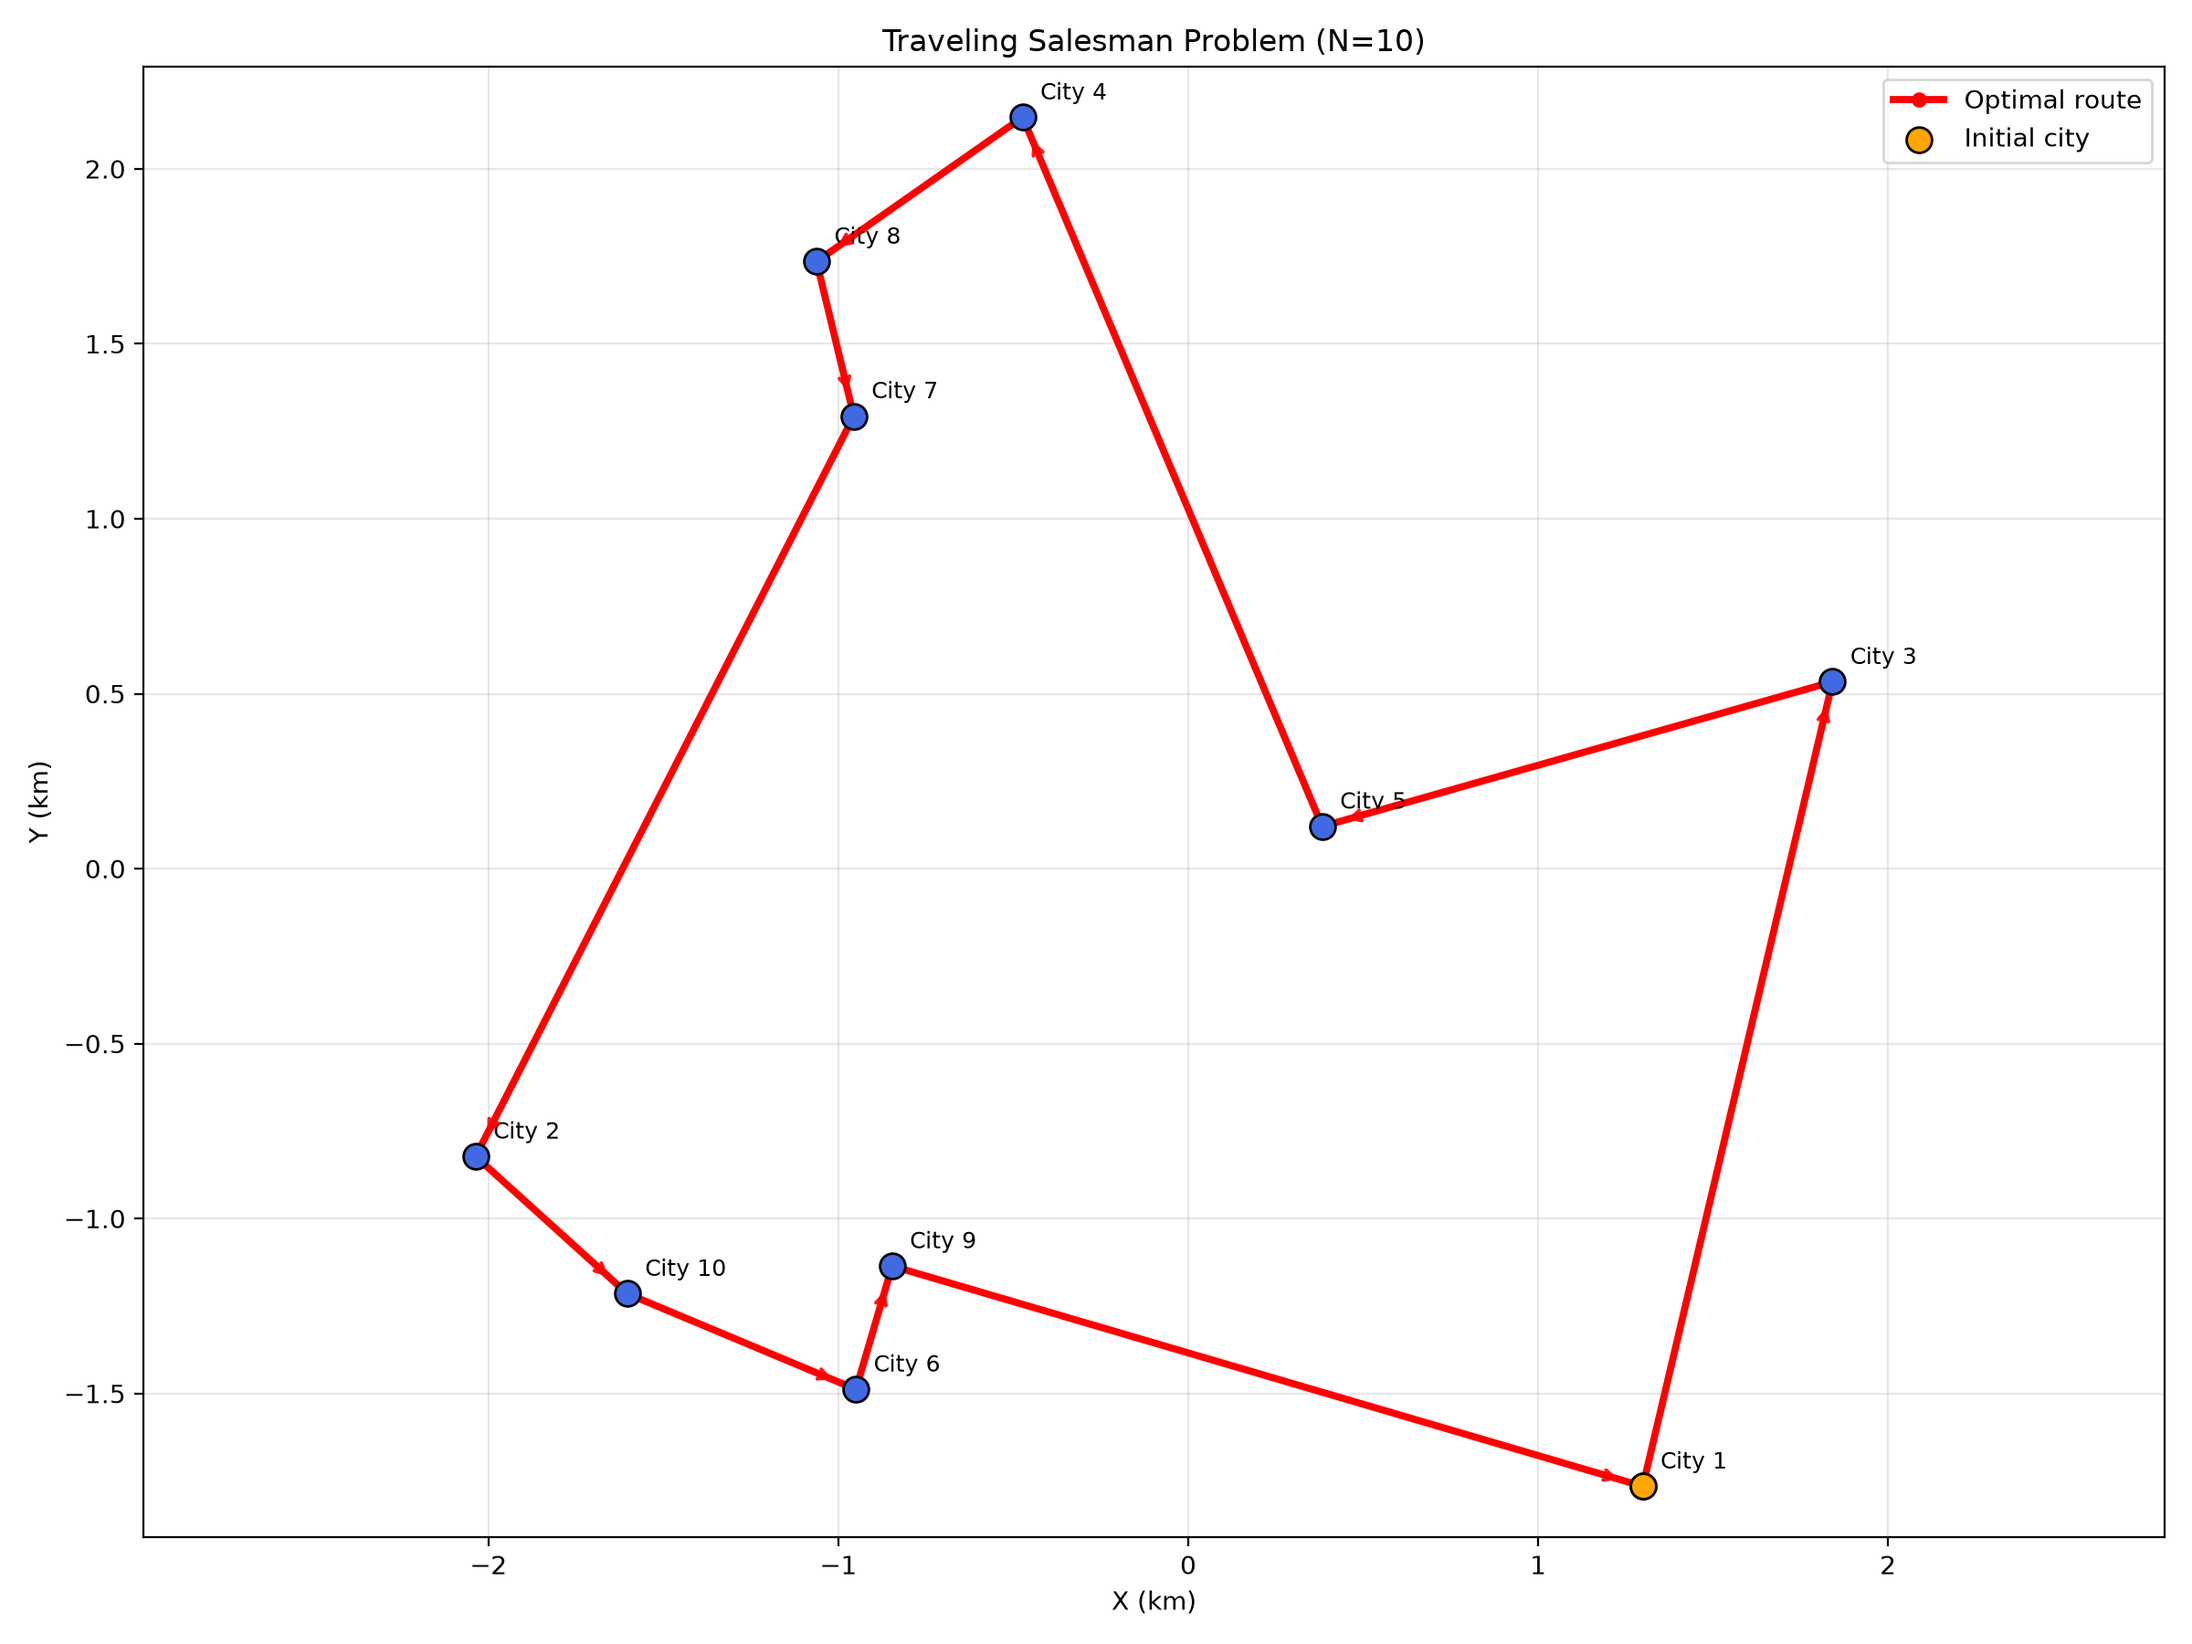
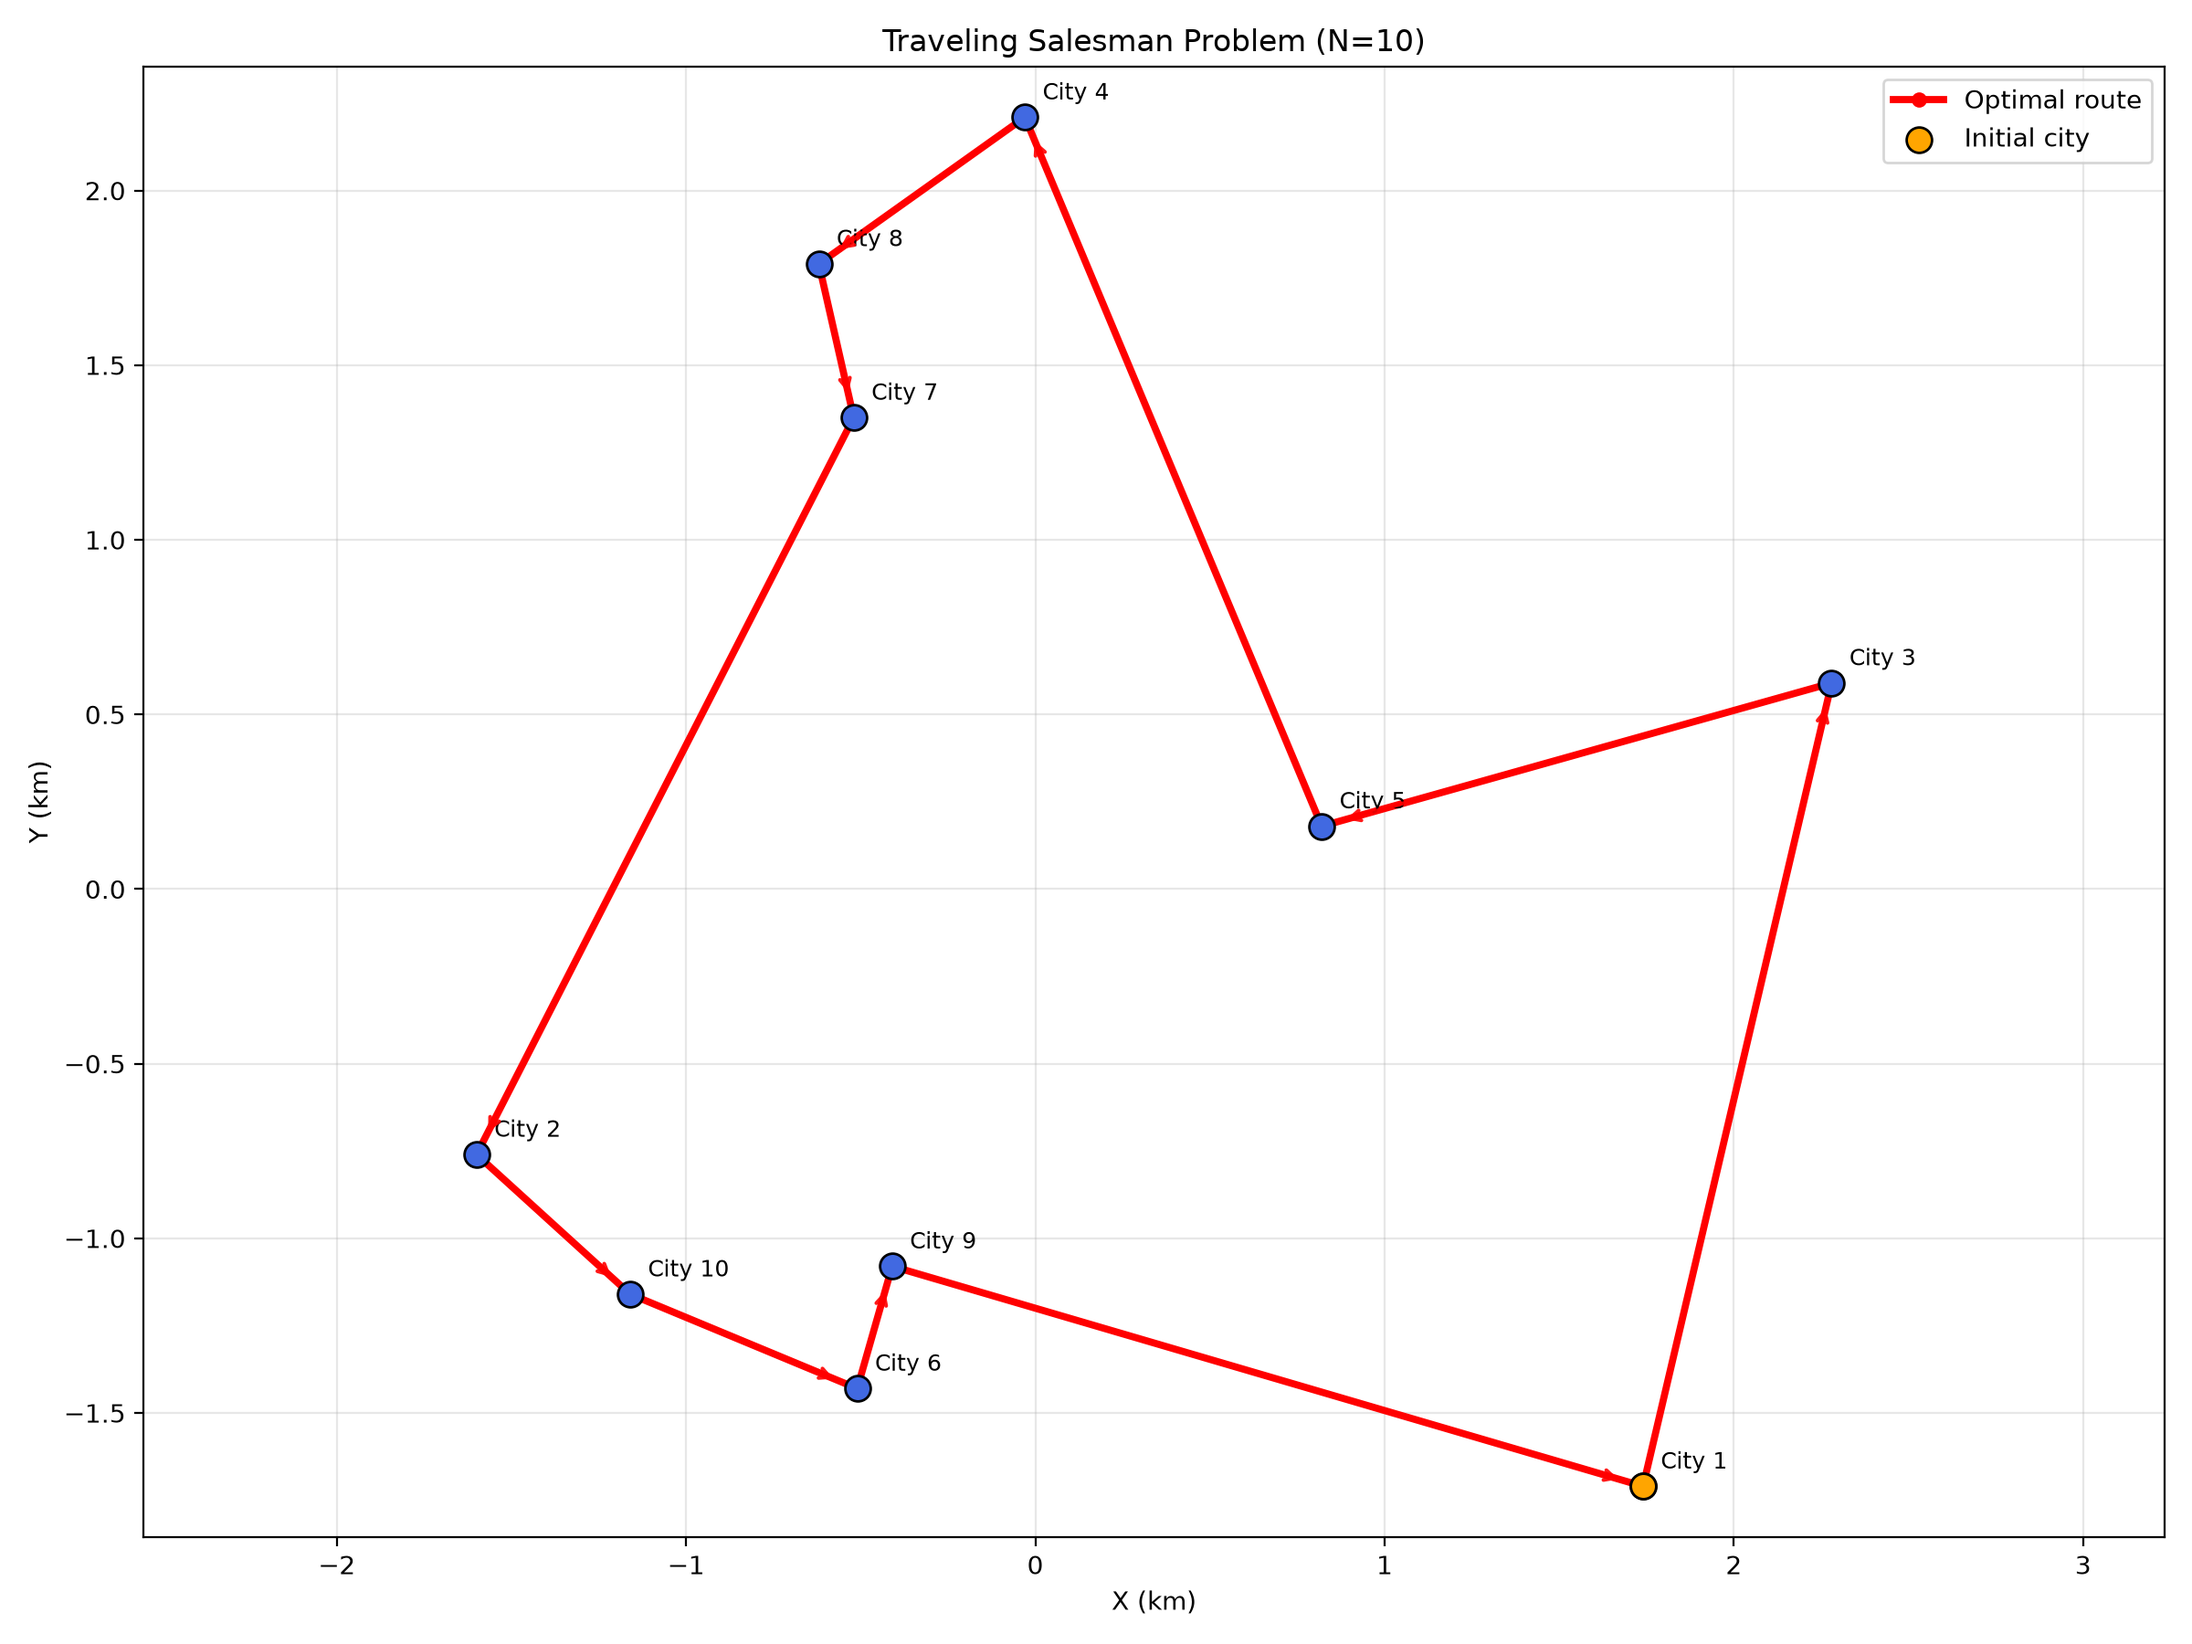
Run exhaustive search on geographic city data

diff --git a/main.c b/main.c
@@ -4,10 +4,125 @@
 #include <stdint.h>
 #include <time.h>
 #include <getopt.h>
+#include <string.h>
+#include <errno.h>
 
+#include "headers/distance.h"
 #include "headers/result.h"
 #include "headers/thread.h"
 #include "headers/utils.h"
+
+static int load_city_csv(
+    const char *filename,
+    Distance *distance,
+    unsigned city_count
+)
+{
+    const double earth_radius_km = 6371.0088;
+    const double degrees_to_radians = acos(-1.0) / 180.0;
+    FILE *file = fopen(filename, "r");
+    if (file == NULL) {
+        perror("Failed to open cities CSV");
+        return 0;
+    }
+
+    char line[1024];
+    if (fgets(line, sizeof(line), file) == NULL) {
+        fprintf(stderr, "Cities CSV is empty: %s\n", filename);
+        fclose(file);
+        return 0;
+    }
+
+    double *gps_coordinates = malloc(2 * city_count * sizeof(*gps_coordinates));
+    if (gps_coordinates == NULL) {
+        fprintf(stderr, "Failed to allocate coordinate buffer.\n");
+        fclose(file);
+        return 0;
+    }
+
+    for (unsigned city = 0; city < city_count; city++) {
+        if (fgets(line, sizeof(line), file) == NULL) {
+            fprintf(stderr,
+                    "Cities CSV has fewer than %u data rows.\n",
+                    city_count);
+            free(gps_coordinates);
+            fclose(file);
+            return 0;
+        }
+
+        line[strcspn(line, "\r\n")] = '\0';
+        char *longitude_field = strrchr(line, ',');
+        if (longitude_field == NULL) {
+            fprintf(stderr, "Invalid cities CSV row %u.\n", city + 2);
+            free(gps_coordinates);
+            fclose(file);
+            return 0;
+        }
+
+        char *end = NULL;
+        errno = 0;
+        double longitude = strtod(longitude_field + 1, &end);
+        if (errno != 0 || end == longitude_field + 1 || *end != '\0') {
+            fprintf(stderr, "Invalid longitude on CSV row %u.\n", city + 2);
+            free(gps_coordinates);
+            fclose(file);
+            return 0;
+        }
+
+        *longitude_field = '\0';
+        char *latitude_field = strrchr(line, ',');
+        if (latitude_field == NULL) {
+            fprintf(stderr, "Invalid cities CSV row %u.\n", city + 2);
+            free(gps_coordinates);
+            fclose(file);
+            return 0;
+        }
+
+        errno = 0;
+        double latitude = strtod(latitude_field + 1, &end);
+        if (errno != 0 || end == latitude_field + 1 || *end != '\0' ||
+            !isfinite(latitude) || !isfinite(longitude) ||
+            latitude < -90.0 || latitude > 90.0 ||
+            longitude < -180.0 || longitude > 180.0) {
+            fprintf(stderr, "Invalid coordinates on CSV row %u.\n", city + 2);
+            free(gps_coordinates);
+            fclose(file);
+            return 0;
+        }
+
+        gps_coordinates[2 * city] = latitude;
+        gps_coordinates[2 * city + 1] = longitude;
+    }
+
+    fclose(file);
+
+    double latitude_origin = 0.0;
+    double longitude_origin = 0.0;
+    for (unsigned city = 0; city < city_count; city++) {
+        latitude_origin += gps_coordinates[2 * city];
+        longitude_origin += gps_coordinates[2 * city + 1];
+    }
+    latitude_origin /= city_count;
+    longitude_origin /= city_count;
+    const double longitude_scale = cos(latitude_origin * degrees_to_radians);
+
+    for (unsigned city = 0; city < city_count; city++) {
+        const double latitude = gps_coordinates[2 * city];
+        const double longitude = gps_coordinates[2 * city + 1];
+        distance->coordinates[city][0] = (float)(
+            earth_radius_km * longitude_scale *
+            (longitude - longitude_origin) * degrees_to_radians
+        );
+        distance->coordinates[city][1] = (float)(
+            earth_radius_km * (latitude - latitude_origin) *
+            degrees_to_radians
+        );
+    }
+
+    free(gps_coordinates);
+    dgenerate_euclidian_distances(distance, city_count);
+    return 1;
+}
 
 
 int main(int argc, char *argv[])
@@ -15,16 +130,18 @@ int main(int argc, char *argv[])
     unsigned qty = 1;
     unsigned thread_count = 0;
     unsigned _seed = 0;
+    const char *cities_filename = NULL;
     int opt;
 
     struct option options[] = {
         {"N", required_argument, 0, 'n'},
         {"threads", required_argument, 0, 't'},
         {"seed", required_argument, 0, 's'},
+        {"cities", required_argument, 0, 'c'},
         {0,0,0,0}
     };
 
-    while((opt = getopt_long(argc, argv, "n:t:T:s:S:", options, NULL)) != -1){
+    while((opt = getopt_long(argc, argv, "n:t:T:s:S:c:", options, NULL)) != -1){
         switch(opt){
             case 'n':
                 qty = (unsigned)strtoul(optarg, NULL, 10);
@@ -37,9 +154,13 @@ int main(int argc, char *argv[])
             case 'S':
                 _seed = (unsigned) strtoul(optarg, NULL, 10);
                 break;
+            case 'c':
+                cities_filename = optarg;
+                break;
             default:
                 fprintf(stderr,
-                        "Use: %s [--N <number>] [--threads <number>]\n",
+                        "Use: %s [--N <number>] [--threads <number>] "
+                        "[--cities <csv>]\n",
                         argv[0]);
                 return 1;
         }
@@ -70,6 +191,14 @@ int main(int argc, char *argv[])
         fprintf(stderr, "Failed to allocate TSP data.\n");
         return EXIT_FAILURE;
     }
+
+    if (cities_filename != NULL &&
+        !load_city_csv(cities_filename, distance, qty)) {
+        destroy(sr, pr);
+        ddestroy(distance);
+        return EXIT_FAILURE;
+    }
+
     print_matrix(distance, qty);
     size_t sequential_routes = run_sequential_tsp(distance, sr);
     size_t parallel_routes = run_paralell_tsp(distance, pr, qty);

diff --git a/README.md b/README.md
@@ -74,6 +74,12 @@ definida com `--threads`, `-t` ou `-T`. Se não for informada, o programa usa
 ./main --N 5 -t 3 -s 0202
 ```
 
+Para usar os pontos geográficos de [`cities.csv`](cities.csv), passe `--cities`. O programa lê as primeiras `N` linhas, converte latitude/longitude em coordenadas locais em quilômetros e executa as buscas sequencial e paralela:
+
+```bash
+./main --N 13 --threads 6 --cities cities.csv
+```
+
 ### No Windows
 
 ```bat
